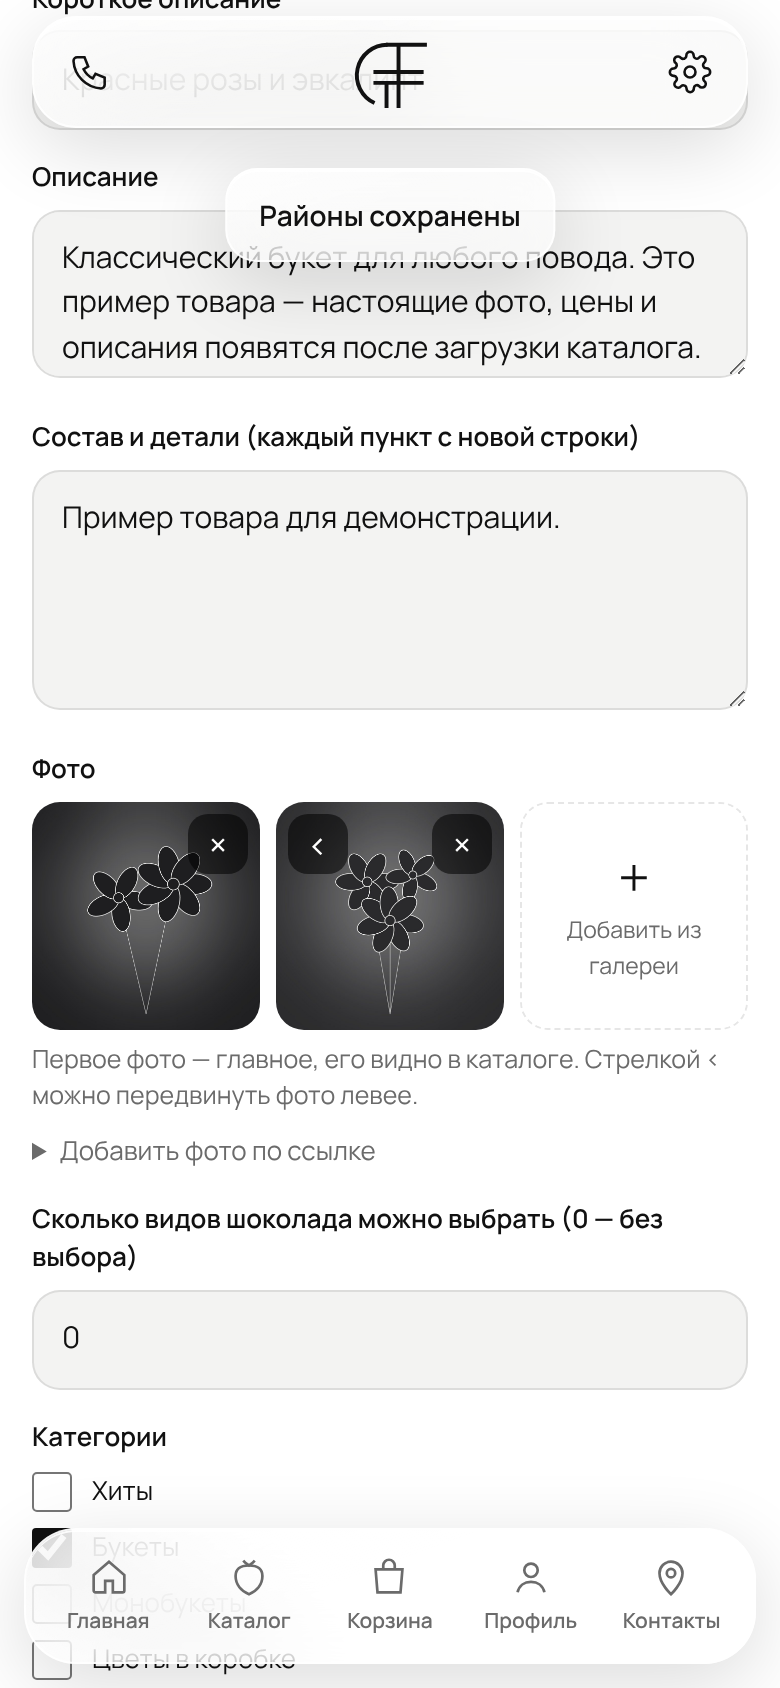
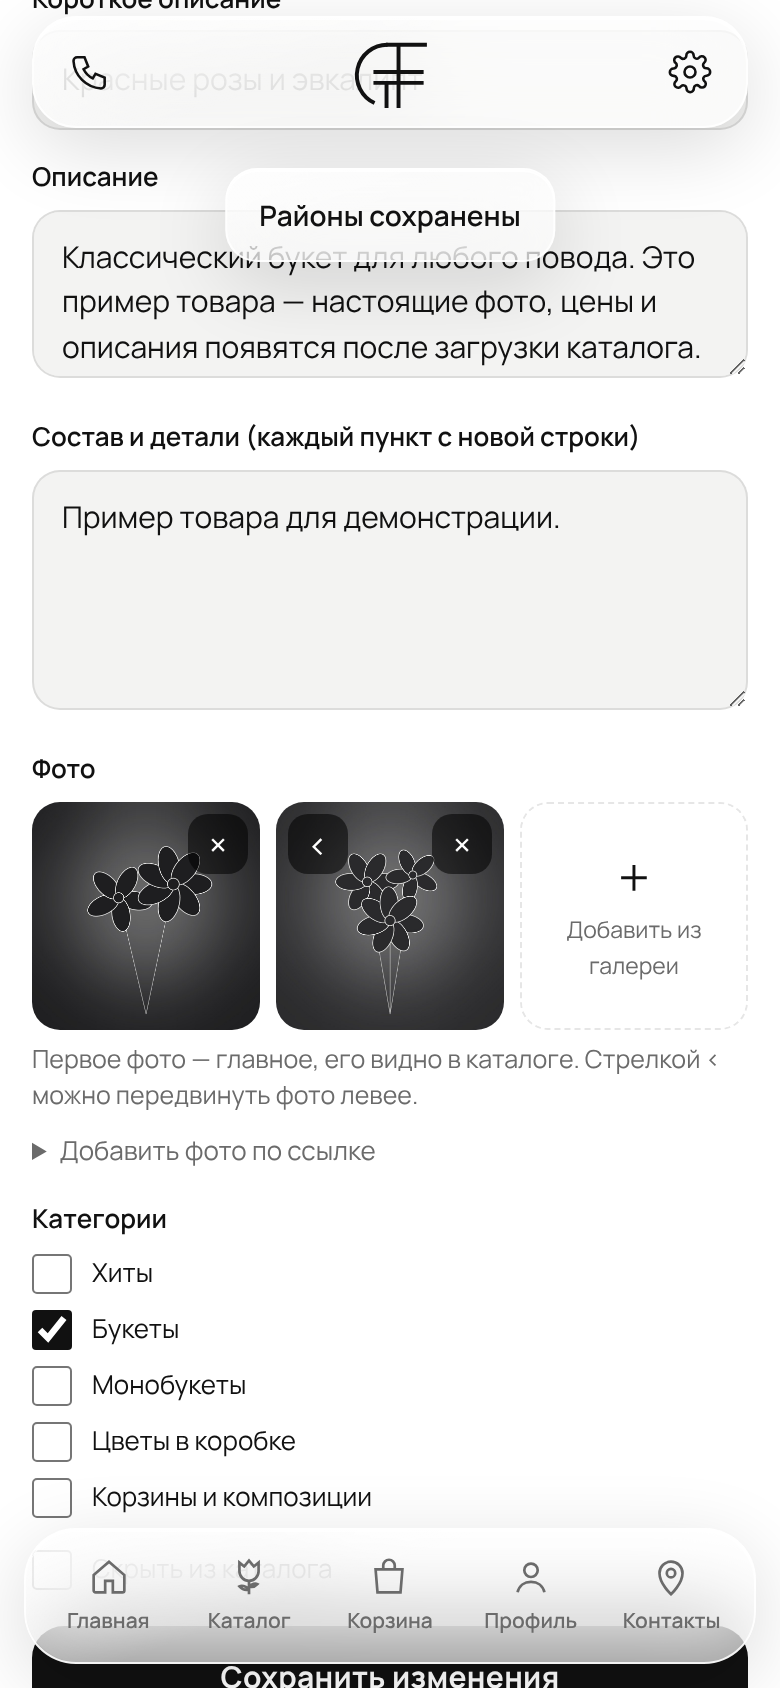
Gagulya: приложение только про цветы — каталог, тексты, иконка тюльпана, без шоколада
Claude-Session: https://claude.ai/code/session_013HVBPZtSqSrvDRQkXTFUFM

Changed region(s): [[0.0308, 0.7085, 0.9846, 1.0], [0.8, 0.7085, 0.8615, 0.7393]]

diff --git a/public/app.js b/public/app.js
@@ -234,7 +234,7 @@
         <div class="hero-card glass">
           <h1 class="display">${esc(s.banner.title)}</h1>
           <p>${esc(s.banner.text)}</p>
-          <a class="btn block" href="#/catalog/all">Выбрать подарок</a>
+          <a class="btn block" href="#/catalog/all">${esc(s.heroButton || "Выбрать подарок")}</a>
           <div class="hero-meta">${chips.map((x) => `<span class="chip-note">${esc(x)}</span>`).join("")}</div>
         </div>
       </section>
@@ -714,7 +714,7 @@
         <details style="margin-top:8px"><summary class="muted" style="font-size:13px">Добавить фото по ссылке</summary>
           <div style="display:flex;gap:8px;margin-top:8px"><input class="input" data-photo-link placeholder="https://…" style="min-height:42px"><button type="button" class="btn soft small" data-action="addPhotoLink">Добавить</button></div></details>
       </div>
-      <label class="field"><span>Сколько видов шоколада можно выбрать (0 — без выбора)</span><input class="input" name="chocolateChoices" type="number" min="0" max="6" value="${p.chocolateChoices || 0}"></label>
+      ${(d.chocolates || []).length ? `<label class="field"><span>Сколько видов шоколада можно выбрать (0 — без выбора)</span><input class="input" name="chocolateChoices" type="number" min="0" max="6" value="${p.chocolateChoices || 0}"></label>` : `<input type="hidden" name="chocolateChoices" value="0">`}
       <div class="field"><span>Категории</span>${d.categories.map((c) => `<label class="check" style="margin-top:8px;color:var(--text)"><input type="checkbox" name="cats" value="${esc(c.id)}" ${p.cats.includes(c.id) ? "checked" : ""}>${esc(c.title)}</label>`).join("")}</div>
       <label class="check" style="color:var(--text)"><input type="checkbox" name="hidden" ${p.hidden ? "checked" : ""}>Скрыть из каталога</label>
       <button class="btn block" style="margin-top:18px" type="submit">${isNew ? "Создать товар" : "Сохранить изменения"}</button>
@@ -801,11 +801,11 @@
         <label class="btn soft small" style="justify-self:start"><input type="file" accept="image/*" hidden data-upload-to="banner.image">Загрузить из галереи</label></div>
         <input type="hidden" name="banner.image" value="${esc(s.banner.image)}"></div>
       <label class="field"><span>Телефон</span><input class="input" name="phone" value="${esc(s.phone)}"></label>
-      <label class="field"><span>Адрес мастерской</span><input class="input" name="address" value="${esc(s.address)}"></label>
+      <label class="field"><span>Адрес</span><input class="input" name="address" value="${esc(s.address)}"></label>
       <label class="field"><span>Режим работы</span><input class="input" name="hours" value="${esc(s.hours)}"></label>
       <label class="field"><span>Время готовности (через запятую)</span><input class="input" name="timeSlots" value="${esc(s.timeSlots.join(", "))}"></label>
       <label class="field"><span>Куда присылать заявки — ID в ${HOST_NAME} через запятую</span><input class="input" name="managerChatIds" value="${esc((s.managerChatIds || []).join(", "))}" placeholder="Напишите боту /id, чтобы узнать свой ID"></label>
-      <label class="field"><span>О мастерской (каждый абзац с новой строки)</span><textarea class="input" name="about" style="min-height:120px">${esc(s.about.join("\n"))}</textarea></label>
+      <label class="field"><span>${esc(s.aboutLabel || "О мастерской")} (каждый абзац с новой строки)</span><textarea class="input" name="about" style="min-height:120px">${esc(s.about.join("\n"))}</textarea></label>
       <label class="field"><span>Доставка и оплата (каждый пункт с новой строки)</span><textarea class="input" name="delivery" style="min-height:120px">${esc(s.delivery.join("\n"))}</textarea></label>
       <label class="field"><span>Текст после отправки заявки</span><textarea class="input" name="successText">${esc(s.successText)}</textarea></label>
       <button class="btn block" type="submit" style="margin-top:16px">Сохранить настройки</button>
@@ -1105,7 +1105,7 @@
     }
     if (act === "shareRef" || act === "copyRef") {
       const link = state.profile.refLink, L = LOY();
-      const text = `Дарю ${L.referral.friendBonus} бонусов на первый заказ в ${state.catalog.settings.brand} 🍓`;
+      const text = `Дарю ${L.referral.friendBonus} бонусов на первый заказ в ${state.catalog.settings.brand} ${state.catalog.settings.emoji || "🍓"}`;
       if (act === "shareRef") {
         try {
           if (mx && mx.shareMaxContent) { await mx.shareMaxContent({ text, link }); return; }
@@ -1136,7 +1136,7 @@
     }
     if (act === "shareProduct") {
       const p = productById(ds.id);
-      return shareLink(`Смотри, какая красота: «${p.title}» в ${state.catalog.settings.brand} 🍓`, appLink("p_" + p.id));
+      return shareLink(`Смотри, какая красота: «${p.title}» в ${state.catalog.settings.brand} ${state.catalog.settings.emoji || "🍓"}`, appLink("p_" + p.id));
     }
     if (act === "sendGift") {
       const link = ds.link || state.lastGiftLink;
@@ -1422,6 +1422,9 @@
       mono.innerHTML = LOGO_MARKS[S.logoMark] || `${esc(S.monogram[0])}<i></i>${esc(S.monogram[1])}`;
       mono.setAttribute("aria-label", S.brand + " — на главную");
     }
+    // flower shops: a flower instead of the strawberry on the «Каталог» tab
+    const catTab = document.querySelector('.tab[data-tab="catalog"] svg');
+    if (S.catalogIcon === "flower" && catTab) catTab.innerHTML = '<path d="M7 4.5l2.5 2L12 3.5l2.5 3 2.5-2V9a5 5 0 0 1-10 0z"/><path d="M12 14v7M12 18.5c-1.8-2-4-2.2-5-1.6 1.4 1.5 3.4 2.1 5 1.6M12 17c1.4-1.6 3.4-1.8 4.4-1.3-1.2 1.3-2.9 1.8-4.4 1.3"/>';
     const tel = S.phone.replace(/[^\d+]/g, "");
     document.getElementById("topLeft").href = "tel:" + tel;
     updateBadge();
